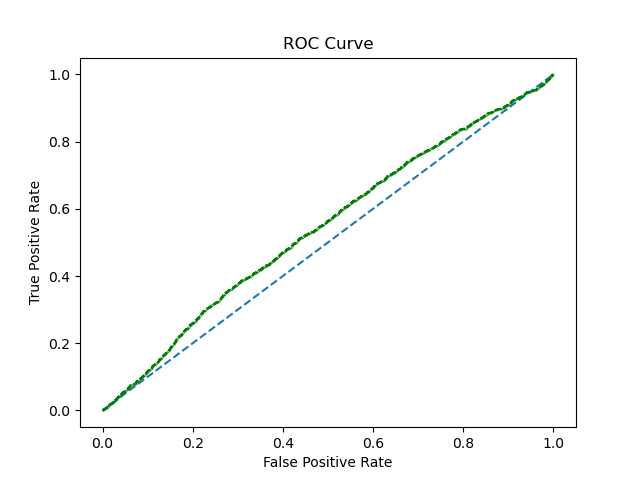
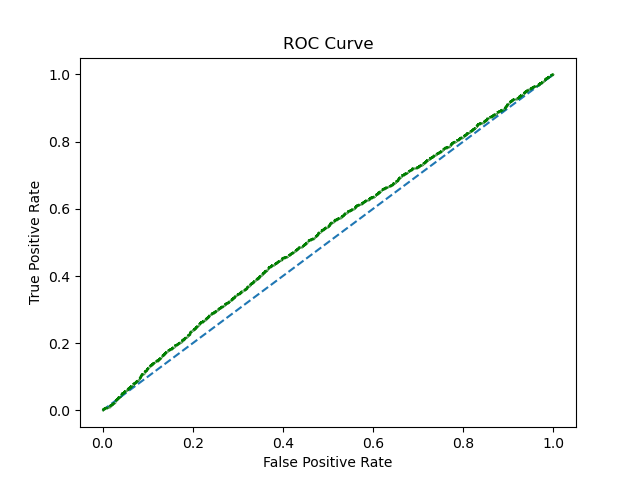
experiment setup

diff --git a/Enhanced-ANN-GSGD/experiment.py b/Enhanced-ANN-GSGD/experiment.py
@@ -35,12 +35,21 @@ def GSGD_ANN_experiment(filePath):
                 NC, x, y, N, d, xts, yts = readData(filePath)
     
                 #model parameters
-                l_rate =  0.02#0.019987676959698759#0.0001#0.0002314354244#9.309681215145698e-15#3.0952770286463463e-07#0.0003314354244#0.00011852732093870824#0.00010926827346753853 #0.0002814354245#0.0002216960781458557#0.0002314354244 #0.000885 #0.061 #0.00025 #0.5
-                n_hidden = 30#36#29#50#36#4
-                lamda =  1e-06#0.5964800918102662#0.06067045242012771#1e-05#0.6980844659683136 #1e-06#0.0001  #Lambda will be used for L2 regularizaion
+                l_rate =   0.02001229522561126#0.019987676959698759#0.0001#0.0002314354244#9.309681215145698e-15#3.0952770286463463e-07#0.0003314354244#0.00011852732093870824#0.00010926827346753853 #0.0002814354245#0.0002216960781458557#0.0002314354244 #0.000885 #0.061 #0.00025 #0.5
+                n_hiddenA = 30#36#29#50#36#4
+                n_hiddenB = 5
+                lamda =  1e-06#0.00014659309759736062#0.5964800918102662#0.06067045242012771#1e-05#0.6980844659683136 #1e-06#0.0001  #Lambda will be used for L2 regularizaion
                 betas = (0.9, 0.999)
                 beta = 0.9
                 epsilon = 1e-8
+
+                T = math.inf #number of batches to use in training. set to math.inf if all batches will be used in training
+                is_guided_approach = True
+                rho = 20
+                versetnum = 5 #number of batches used for verification
+                epochs = 15#27#15
+                revisitNum = 15
+                batch_size = 40#812#122#468#300#891#32
 
                 optim_params = l_rate, lamda, betas, beta, epsilon
 
@@ -50,22 +59,17 @@ def GSGD_ANN_experiment(filePath):
 
                 #initialize both networks #should have the same initial weights
                 network_GSGD = nn.Sequential(
-                                nn.Linear(d, n_hidden),
-                                nn.Sigmoid(),
-                                nn.Linear(n_hidden, 1),
-                                nn.Sigmoid()).to(device=device)
+                      nn.Linear(d, n_hiddenA),
+                      nn.BatchNorm1d(n_hiddenA),
+                      nn.Sigmoid(),
+                      nn.Linear(n_hiddenA, n_hiddenB),
+                      nn.BatchNorm1d(n_hiddenB),
+                      nn.Sigmoid(),
+                      nn.Linear(n_hiddenB, 1),
+                      nn.Sigmoid()).to(device=device)
                 optimizer_GSGD = get_optimizer(network_GSGD, name=optim_name, cache= optim_params)
                 network_SGD = copy.deepcopy(network_GSGD)
                 optimizer_SGD = get_optimizer(network_SGD, name=optim_name, cache= optim_params)
-
-                # evaluate algorithm GSGD
-                T = math.inf #number of batches to use in training. set to math.inf if all batches will be used in training
-                is_guided_approach = True
-                rho = 20
-                versetnum = 5 #number of batches used for verification
-                epochs = 30#27#15
-                revisitNum = 15
-                batch_size = 40#812#122#468#300#891#32
 
                 experiment_param = optim_name, run+1, connlite
 
@@ -89,10 +93,10 @@ def generate_graphs_experiment(epochs, results_container, run, optim_name):
 
     # Error Convergence of GSGD and SGD
     plt.figure()
-    plt.plot(Epocperm, SGD_EoverEpochs, label='SGD Error', linewidth=1)
-    plt.plot(Epocperm, GSGD_EoverEpochs, 'r--', label='GSGD Error', linewidth=1)
+    plt.plot(Epocperm, SGD_EoverEpochs, label=f'{optim_name} Error', linewidth=1)
+    plt.plot(Epocperm, GSGD_EoverEpochs, 'r--', label=f'G{optim_name} Error', linewidth=1)
 
-    plt.title('Error Convergence of GSGD and SGD')
+    plt.title(f'Error Convergence of G{optim_name} and {optim_name}')
     plt.xlabel("Epochs")
     plt.ylabel("Error")
     plt.legend(loc=2)
@@ -101,10 +105,10 @@ def generate_graphs_experiment(epochs, results_container, run, optim_name):
 
     #Success rate GSGD and SGD over Epochs General
     plt.figure()
-    plt.plot(Epocperm, SGD_SRoverEpochs, label='SGD SR', linewidth=1)
-    plt.plot(Epocperm, GSGD_SRoverEpochs, 'r--', label='GSGD SR', linewidth=1)
+    plt.plot(Epocperm, SGD_SRoverEpochs, label=f'{optim_name}', linewidth=1)
+    plt.plot(Epocperm, GSGD_SRoverEpochs, 'r--', label=f'G{optim_name}', linewidth=1)
 
-    plt.title('Classification Accuracy of GSGD and SGD')
+    plt.title(f'Classification Accuracy of G{optim_name} and {optim_name}')
     plt.xlabel("Epochs")
     plt.ylabel("Classification Accuracy")
     plt.legend(loc=2)
@@ -116,7 +120,7 @@ def evaluate_algorithm_experiment(x, y, xts, yts, cache, results_container, expe
     StopTrainingFlag = False
     is_guided_approach, rho, versetnum, epochs, revisitNum, N, network, optimizer, T, batch_size = cache
     
-    GSGD_SRoverEpochs, GSGD_EoverEpochs, SGD_SRoverEpochs, SGD_EoverEpochs, singlepochSRGSGD, singlepochSRSGD  = results_container
+    GSGD_SRoverEpochs, GSGD_EoverEpochs, SGD_SRoverEpochs, SGD_EoverEpochs  = results_container
 
     #transform into tensors and setup dataLoader with mini batches
     my_dataset = TensorDataset(torch.Tensor(x), torch.Tensor(y))
@@ -259,14 +263,14 @@ def evaluate_algorithm_experiment(x, y, xts, yts, cache, results_container, expe
         
             SR, E = validate(xts, network, yts, loss_function)
             print('Epoch : %s' % str(epoch+1))
-            print('Success Rate: %s' % SR.item())
+            print('Accuracy: %s' % SR.item())
             print('Error Rate: %s' % E)
             
             #Epoch Completes here
             GSGD_SRoverEpochs.append(SR.item())
             GSGD_EoverEpochs.append(E)
 
-        experiment_results_final(xts, network, yts, loss_function, type='guided')
+        experiment_results_final(xts, network, yts, loss_function, experiment_param, type='guided')
 
     else: #not guided training
         print("Not Guided Training started")
@@ -295,9 +299,9 @@ def evaluate_algorithm_experiment(x, y, xts, yts, cache, results_container, expe
 
             if(epoch == epochs-1):    
                 print('Epoch : %s' % str(epoch+1))
-                print('Success Rate: %s' % SR.item())
+                print('Accuracy: %s' % SR.item())
                 print('Error Rate: %s' % E)
-                experiment_results_final(xts, network, yts, loss_function, type='original')
+                experiment_results_final(xts, network, yts, loss_function, experiment_param, type='original')
 
 def experiment_results_final(inputVal, network, actual, loss_function, experiment_param,  type = ''):
     optim_name, run, connlite = experiment_param
@@ -368,11 +372,15 @@ def experiment_results_final(inputVal, network, actual, loss_function, experimen
             curlite.close()
 
 if __name__ == '__main__':
-    root = tk.Tk()
-    root.withdraw()
-    file_path = filedialog.askopenfilename(
-        initialdir=os.path.dirname(os.path.realpath(__file__))+'/data', filetypes=[('data files', '.data')])
-    print(file_path)
-    if(file_path == ''):
-        print('File not found')
+     # root = tk.Tk()
+    # root.withdraw()
+    # file_path = filedialog.askopenfilename(
+    #     initialdir=os.path.dirname(os.path.realpath(__file__))+'/data', filetypes=[('data files', '.data')])
+    # print(file_path)
+    # if(file_path == ''):
+    #     print('File not found')
+    # GSGD_ANN(file_path)
+
+    #below ccode is only used in environment not supporting GUI/Tkinter, comment the above code wen using this
+    file_path = '/home/paperspace/Documents/Enhanced-ANN-GSGD/Enhanced-ANN-GSGD/data/diabetes_readmission_2class.data'
     GSGD_ANN_experiment(file_path)

diff --git a/Enhanced-ANN-GSGD/main.py b/Enhanced-ANN-GSGD/main.py
@@ -30,7 +30,8 @@ def GSGD_ANN(filePath):
     
     #model parameters
     l_rate =   0.02001229522561126#0.019987676959698759#0.0001#0.0002314354244#9.309681215145698e-15#3.0952770286463463e-07#0.0003314354244#0.00011852732093870824#0.00010926827346753853 #0.0002814354245#0.0002216960781458557#0.0002314354244 #0.000885 #0.061 #0.00025 #0.5
-    n_hidden = 30#36#29#50#36#4
+    n_hiddenA = 30#36#29#50#36#4
+    n_hiddenB = 5
     lamda =  1e-06#0.00014659309759736062#0.5964800918102662#0.06067045242012771#1e-05#0.6980844659683136 #1e-06#0.0001  #Lambda will be used for L2 regularizaion
     betas = (0.9, 0.999)
     beta = 0.9
@@ -40,7 +41,7 @@ def GSGD_ANN(filePath):
     is_guided_approach = True
     rho = 20
     versetnum = 5 #number of batches used for verification
-    epochs = 12#27#15
+    epochs = 15#27#15
     revisitNum = 15
     batch_size = 40#812#122#468#300#891#32
 
@@ -54,10 +55,13 @@ def GSGD_ANN(filePath):
 
     #initialize both networks #should have the same initial weights
     network_GSGD = nn.Sequential(
-                      nn.Linear(d, n_hidden),
-                      nn.BatchNorm1d(n_hidden),
+                      nn.Linear(d, n_hiddenA),
+                      nn.BatchNorm1d(n_hiddenA),
                       nn.Sigmoid(),
-                      nn.Linear(n_hidden, 1),
+                      nn.Linear(n_hiddenA, n_hiddenB),
+                      nn.BatchNorm1d(n_hiddenB),
+                      nn.Sigmoid(),
+                      nn.Linear(n_hiddenB, 1),
                       nn.Sigmoid()).to(device=device)
     optimizer_GSGD = get_optimizer(network_GSGD, name=optim_name, cache= optim_params)
     network_SGD = copy.deepcopy(network_GSGD)
@@ -223,7 +227,7 @@ def evaluate_algorithm(x, y, xts, yts, cache, results_container):
         
             SR, E = validate(xts, network, yts, loss_function)
             print('Epoch : %s' % str(epoch+1))
-            print('Success Rate: %s' % SR.item())
+            print('Accuracy: %s' % SR.item())
             print('Error Rate: %s' % E)
 
             #Epoch Completes here
